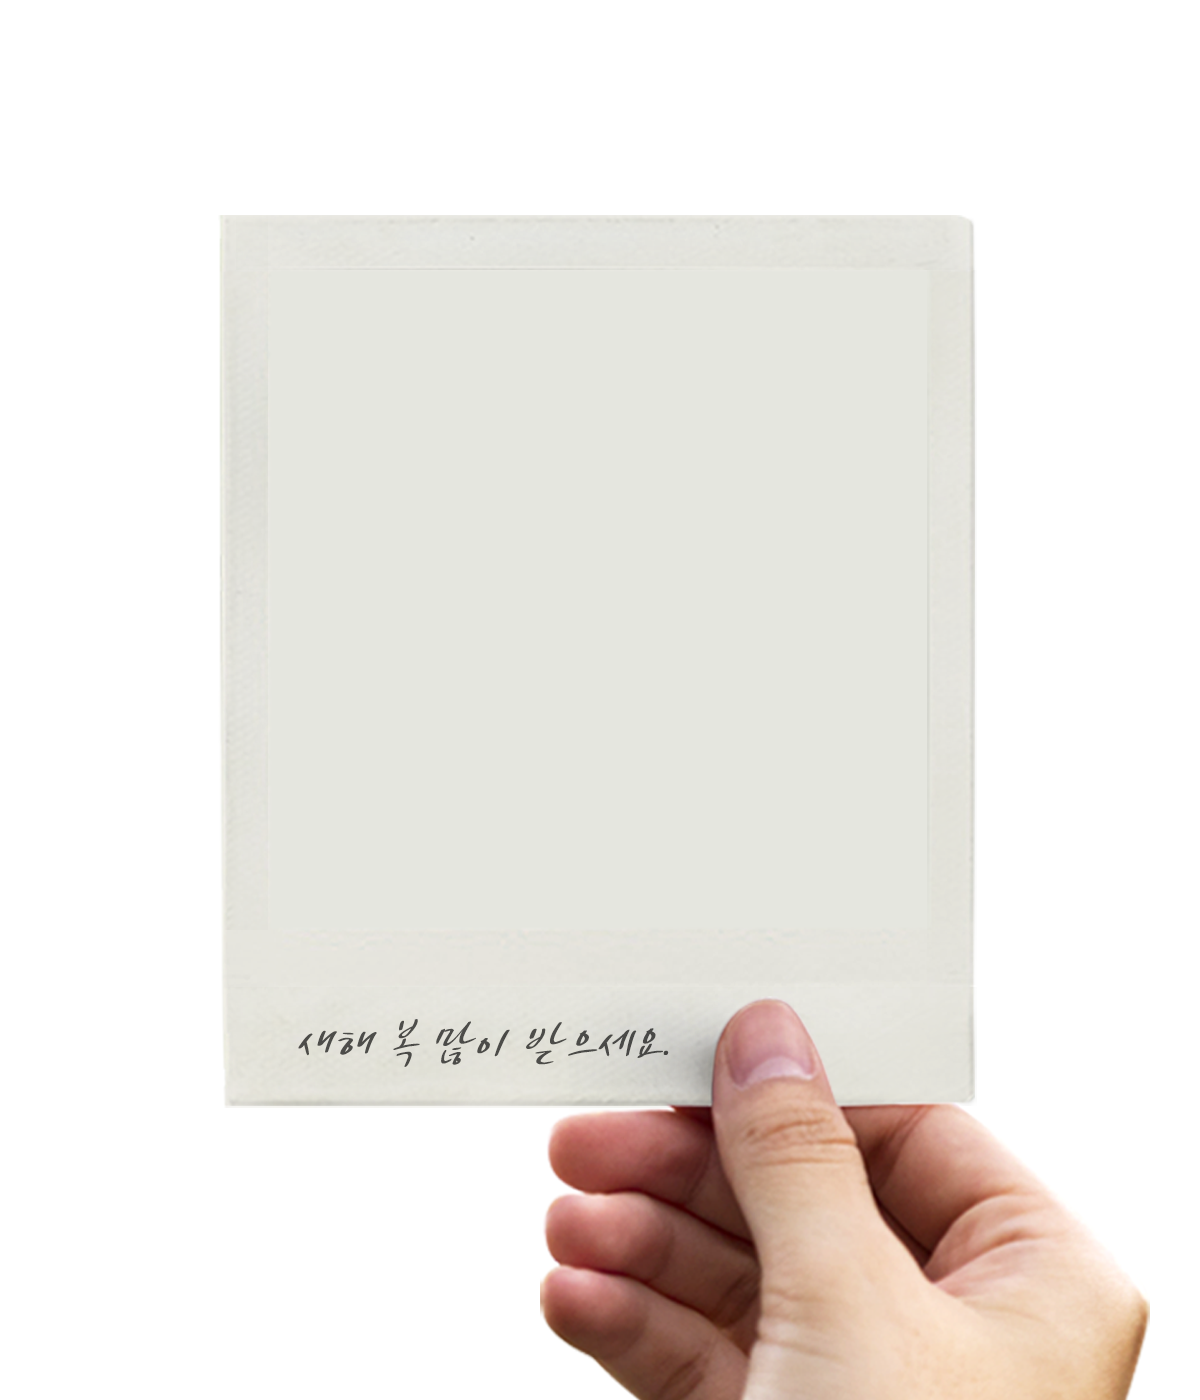
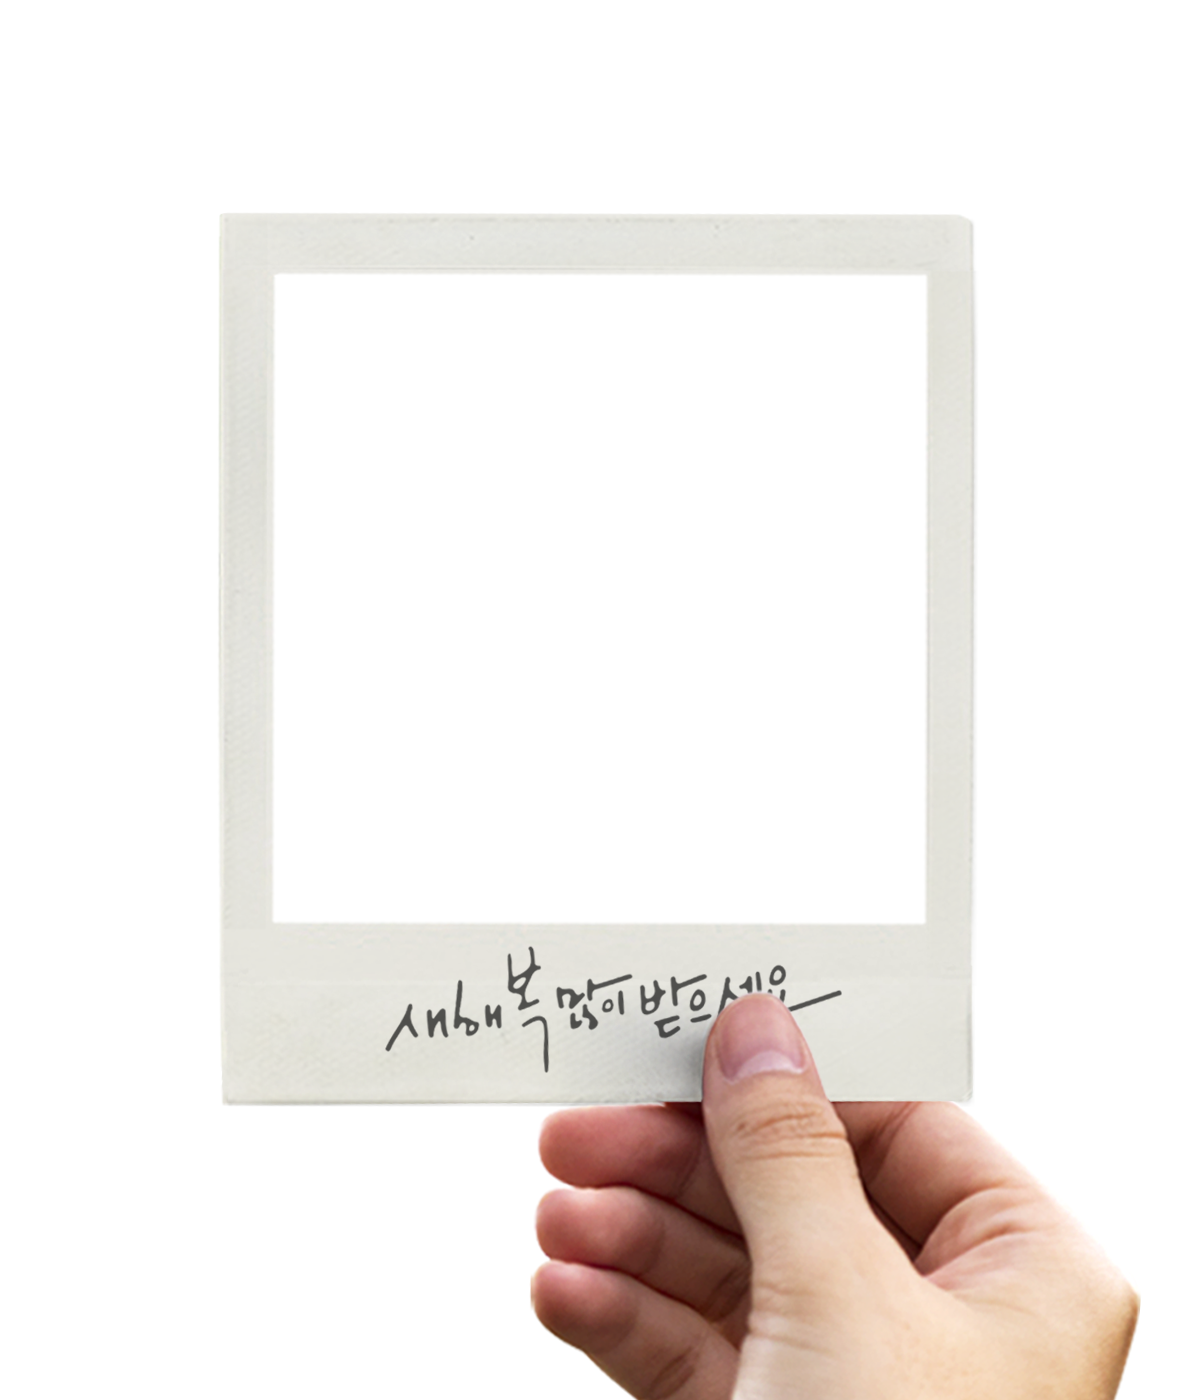
ryul

diff --git a/public/stylesheets/position.css b/public/stylesheets/position.css
@@ -229,9 +229,11 @@
     font-size: 1em;    
   }
   #origin_image{
-    height: 100%; width: 100% ; max-width: 1000px;
+    height: 95%; width: 100% ; max-width: 1000px;
     object-position: center;
     object-fit: cover;
+    position:relative;
+    transform: rotate(-10deg);
   }
     #stepBar img
     {
@@ -281,6 +283,19 @@
     background: black;
     opacity: 0.4;
   }
+
+      #kakao
+    {
+      margin-left: -40%;
+      height: 10vh;
+
+    }
+    img.shareBut{
+      height: 10vh;
+      margin-top:-90%;
+      background-color:grey;
+       padding:2%;
+    }
 }
 
 
@@ -520,7 +535,7 @@
     #origin_image
     {
 
-      height: 100%; width: 65% ; max-width: 1000px;
+      height: 93%; width: 65% ; max-width: 1000px;
       position: relative;
       top:5.8vh;
       left:1.8vw;
@@ -547,5 +562,17 @@
     div#bottomList{
       width: 35%;
       text-align: center;
+    }
+    #kakao
+    {
+      margin-left: -40%;
+      height: 10vh;
+
+    }
+    img.shareBut{
+      height: 10vh;
+      margin-top:-90%;
+      background-color:grey;
+       padding:2%;
     }
   }
